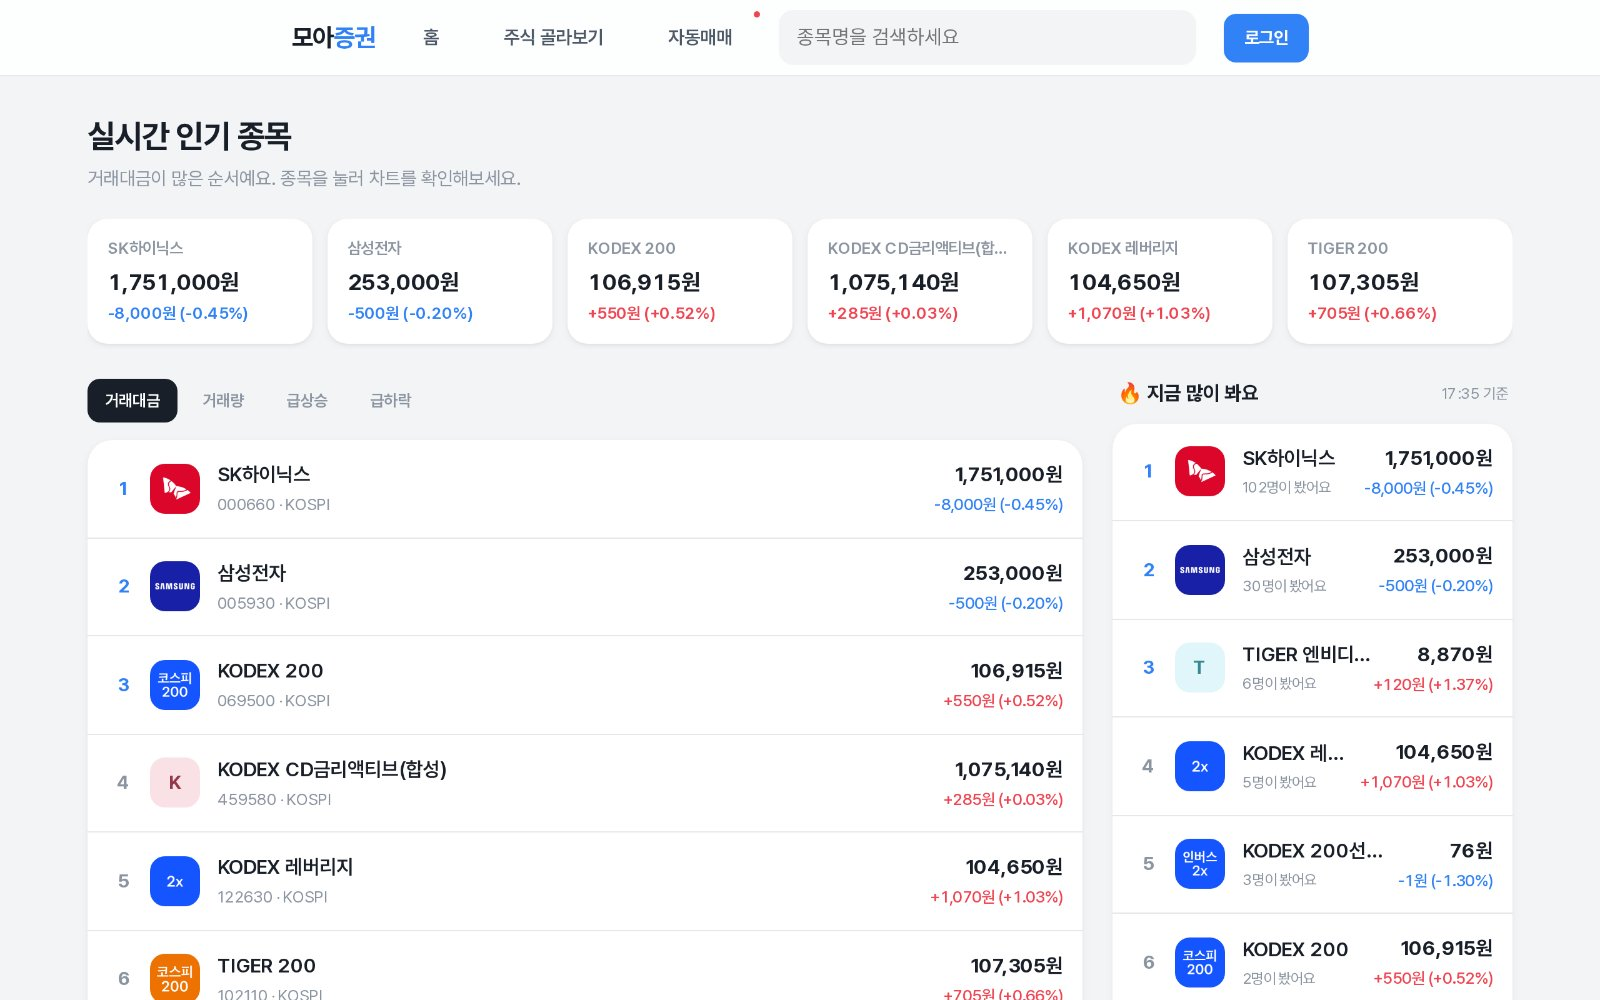
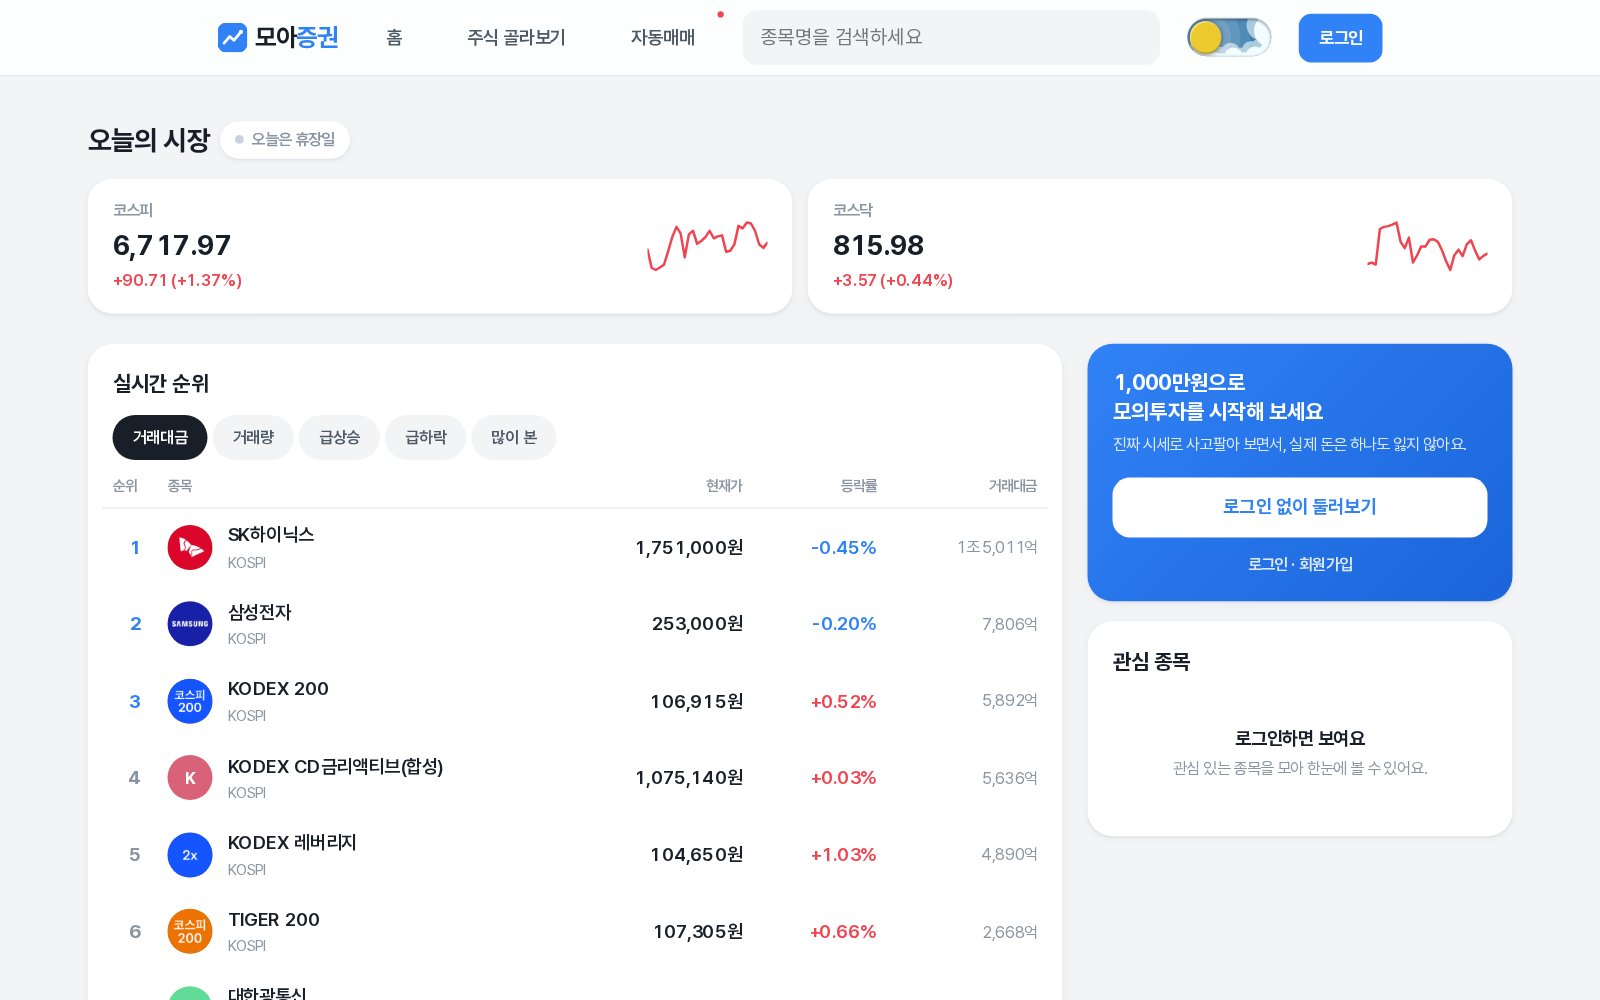
Lambda를 모아증권으로 바꾸고 화면 사진과 소개 글 갱신

diff --git a/includes/projects/lambda.php b/includes/projects/lambda.php
@@ -3,19 +3,19 @@
     <dl class="feature-list">
         <div>
             <dt>실시간 시세</dt>
-            <dd>코스피·코스닥 전 종목(4,382개)의 실시간 시세, 최대 2년치 차트, 지수</dd>
+            <dd>코스피·코스닥 전 종목(4,382개)의 실시간 시세와 지수, 거래대금·거래량·급상승·급하락·많이 본 종목 순위</dd>
         </div>
         <div>
             <dt>호가와 모의 매매</dt>
-            <dd>파는 쪽과 사는 쪽을 좌우로 비교하는 실시간 호가창, 모의 매매와 계좌·주문 내역</dd>
+            <dd>실시간 호가창과 최대 2년치 차트, 1,000만 원 모의자금으로 사고파는 매매와 계좌·주문 내역</dd>
         </div>
         <div>
-            <dt>화면 배치</dt>
-            <dd>종목 상세 화면의 차트·호가 등을 끌어서 옮기고 크기를 바꿀 수 있습니다</dd>
+            <dt>가입 없이 체험</dt>
+            <dd>'로그인 없이 둘러보기'를 누르면 체험 계정으로 바로 들어갑니다. 체험 계정은 매일 새벽 처음 상태로 돌아갑니다</dd>
         </div>
         <div>
-            <dt>자동 데이터 관리</dt>
-            <dd>시세 수집부터 집계, 오래된 데이터 정리까지 정해진 시간에 자동으로 돌아갑니다</dd>
+            <dt>다크 모드</dt>
+            <dd>기기 설정에 맞춰 밝은 화면과 어두운 화면이 자동으로 바뀌고, 직접 고른 모드는 기억합니다</dd>
         </div>
     </dl>
 </section>
@@ -25,11 +25,11 @@
     <ol class="decision-list">
         <li>
             <h3>오래된 데이터는 알아서 정리됩니다</h3>
-            <p>실시간으로 쌓이는 원본 기록과 화면에 보여줄 데이터를 나눠 저장합니다. 원본은 7일이 지나면 자동으로 지워져, 서버 용량이 끝없이 늘지 않습니다.</p>
+            <p>실시간으로 쌓이는 원본 기록과 화면에 보여줄 데이터를 나눠 저장합니다. 시세 수집부터 집계, 정리까지 정해진 시간에 자동으로 돌아가고, 원본은 7일이 지나면 지워져 서버 용량이 끝없이 늘지 않습니다.</p>
         </li>
         <li>
-            <h3>데이터 양에 맞춰 차트 모양이 바뀝니다</h3>
-            <p>시세가 듬성듬성한 구간은 선 차트로, 충분한 구간은 캔들 차트로 자동으로 바꿔 보여줍니다. 데이터가 적어도 차트가 뭉개져 보이지 않습니다.</p>
+            <h3>쉬는 날에도 차트가 비어 있지 않습니다</h3>
+            <p>주말이나 장 시작 전처럼 오늘 거래가 없으면 최근 3달 차트를 자동으로 보여줍니다. 기간에 따라 짧은 구간은 선 차트, 긴 구간은 캔들 차트로 바꿔 보여줘, 언제 들어와도 화면이 비거나 뭉개져 보이지 않습니다.</p>
         </li>
     </ol>
 </section>

diff --git a/includes/data/projects.php b/includes/data/projects.php
@@ -4,7 +4,7 @@
 // image: 메인 카드 화면 jpg (같은 이름의 .webp 가 있으면 먼저 사용, 비어 있으면 '비공개' 표시)
 // link: 사이트 주소, github: 저장소 주소 (비어 있으면 버튼 안 보임)
 // intro, note: 상세 페이지 머리의 한 줄 소개와 알림
-// shots: 상세 페이지 화면 목록. 첫 장이 가장 크게 나온다. 파일이 없으면 '준비 중' 칸
+// shots: 상세 페이지 화면 목록. 첫 장이 가장 크게 나온다. 파일이 없는 화면은 숨김
 // 상세 본문은 includes/projects/{slug}.php
 $projects = [
     'livef' => [
@@ -20,7 +20,7 @@ $projects = [
         'note'   => '기존 개발자가 만든 상업 서비스를 넘겨받아 운영과 개선을 맡고 있습니다. 고객사 서비스라 화면은 싣지 않았습니다.',
     ],
     'lambda' => [
-        'title'  => 'Lambda',
+        'title'  => '모아증권',
         'badge'  => '2인 팀',
         'tag'    => '실시간 주식 모의투자',
         'desc'   => '증권사 API로 실시간 시세를 받아 모의투자를 할 수 있는 플랫폼입니다.',
@@ -29,11 +29,11 @@ $projects = [
         'link'   => 'https://kir1.cafe24.com/user/',
         'github' => 'https://github.com/ican243/Lambda',
         'intro'  => '증권사 API로 코스피·코스닥 전 종목의 실시간 시세를 받아, 차트를 보며 모의투자를 할 수 있는 서비스입니다.',
-        'note'   => '시세를 받아오는 서버와 데이터 처리, 화면을 맡았고 자동매매 기능은 팀원이 맡았습니다. 모의투자 서비스라 실제 주문은 나가지 않습니다.',
+        'note'   => '시세를 받아오는 서버와 데이터 처리, 화면을 맡았고 자동매매 기능은 팀원이 맡았습니다. 모의투자 서비스라 실제 주문은 나가지 않으며, 가입 없이 체험 계정으로 바로 써 볼 수 있습니다.',
         'shots'  => [
             ['file' => 'assets/img/projects/lambda-main.jpg',   'caption' => '메인 화면'],
             ['file' => 'assets/img/projects/lambda-detail.jpg', 'caption' => '종목 상세 (차트·호가)'],
-            ['file' => 'assets/img/projects/lambda-trade.jpg',  'caption' => '모의 매매 (계좌·주문)'],
+            ['file' => 'assets/img/projects/lambda-trade.jpg',  'caption' => '내 계좌 (체험 계정)'],
         ],
     ],
     'linkr' => [
